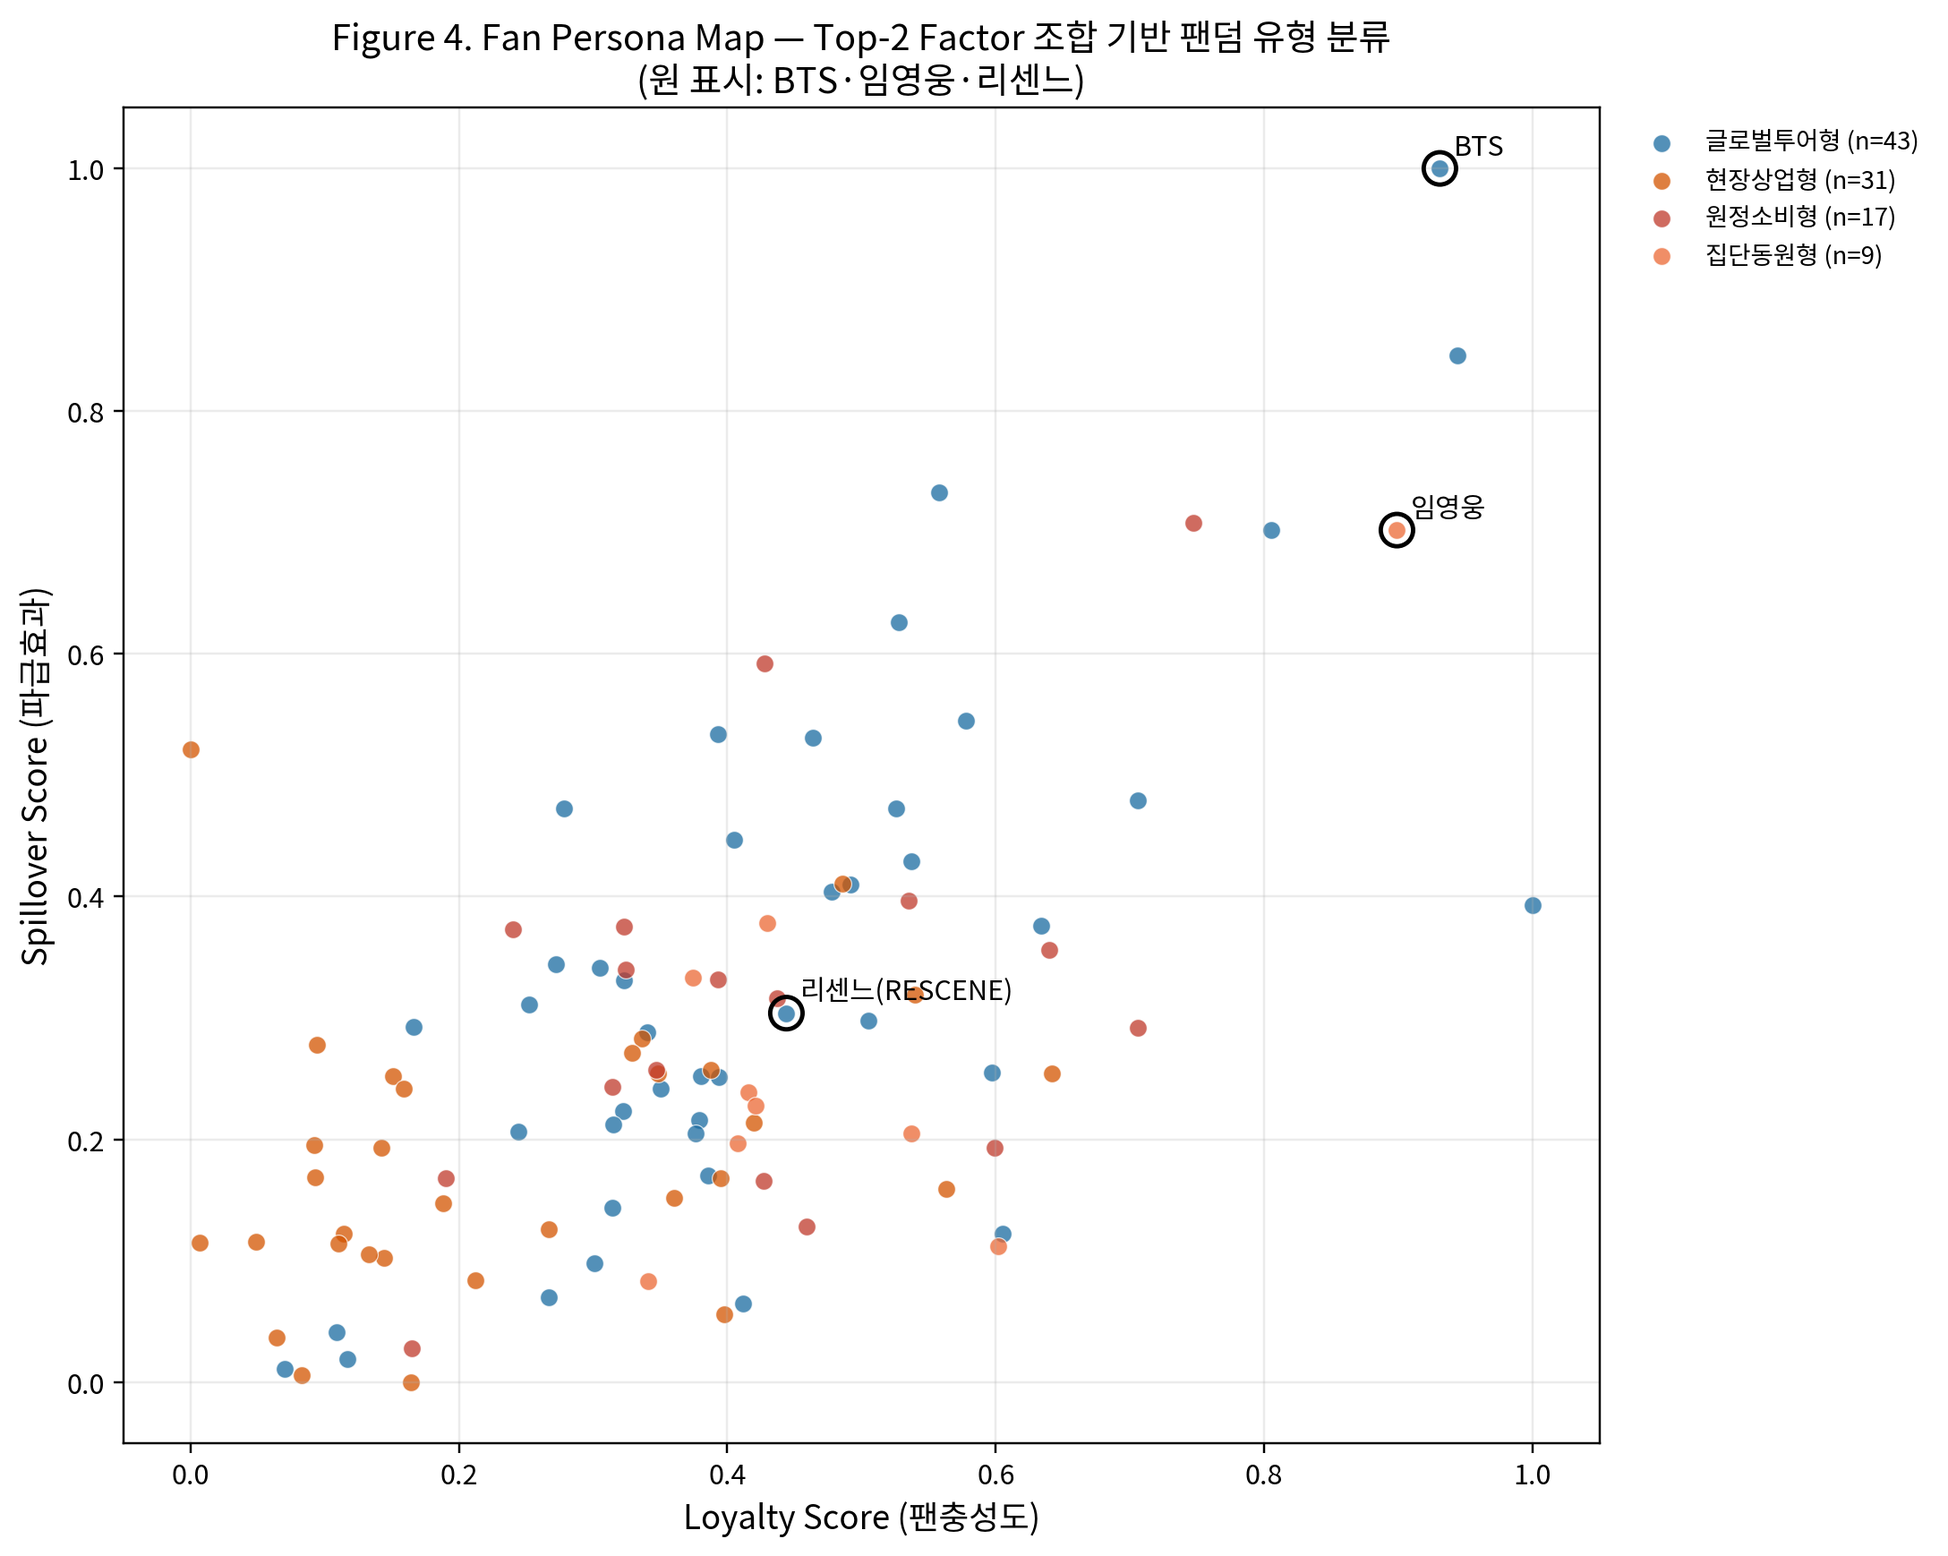
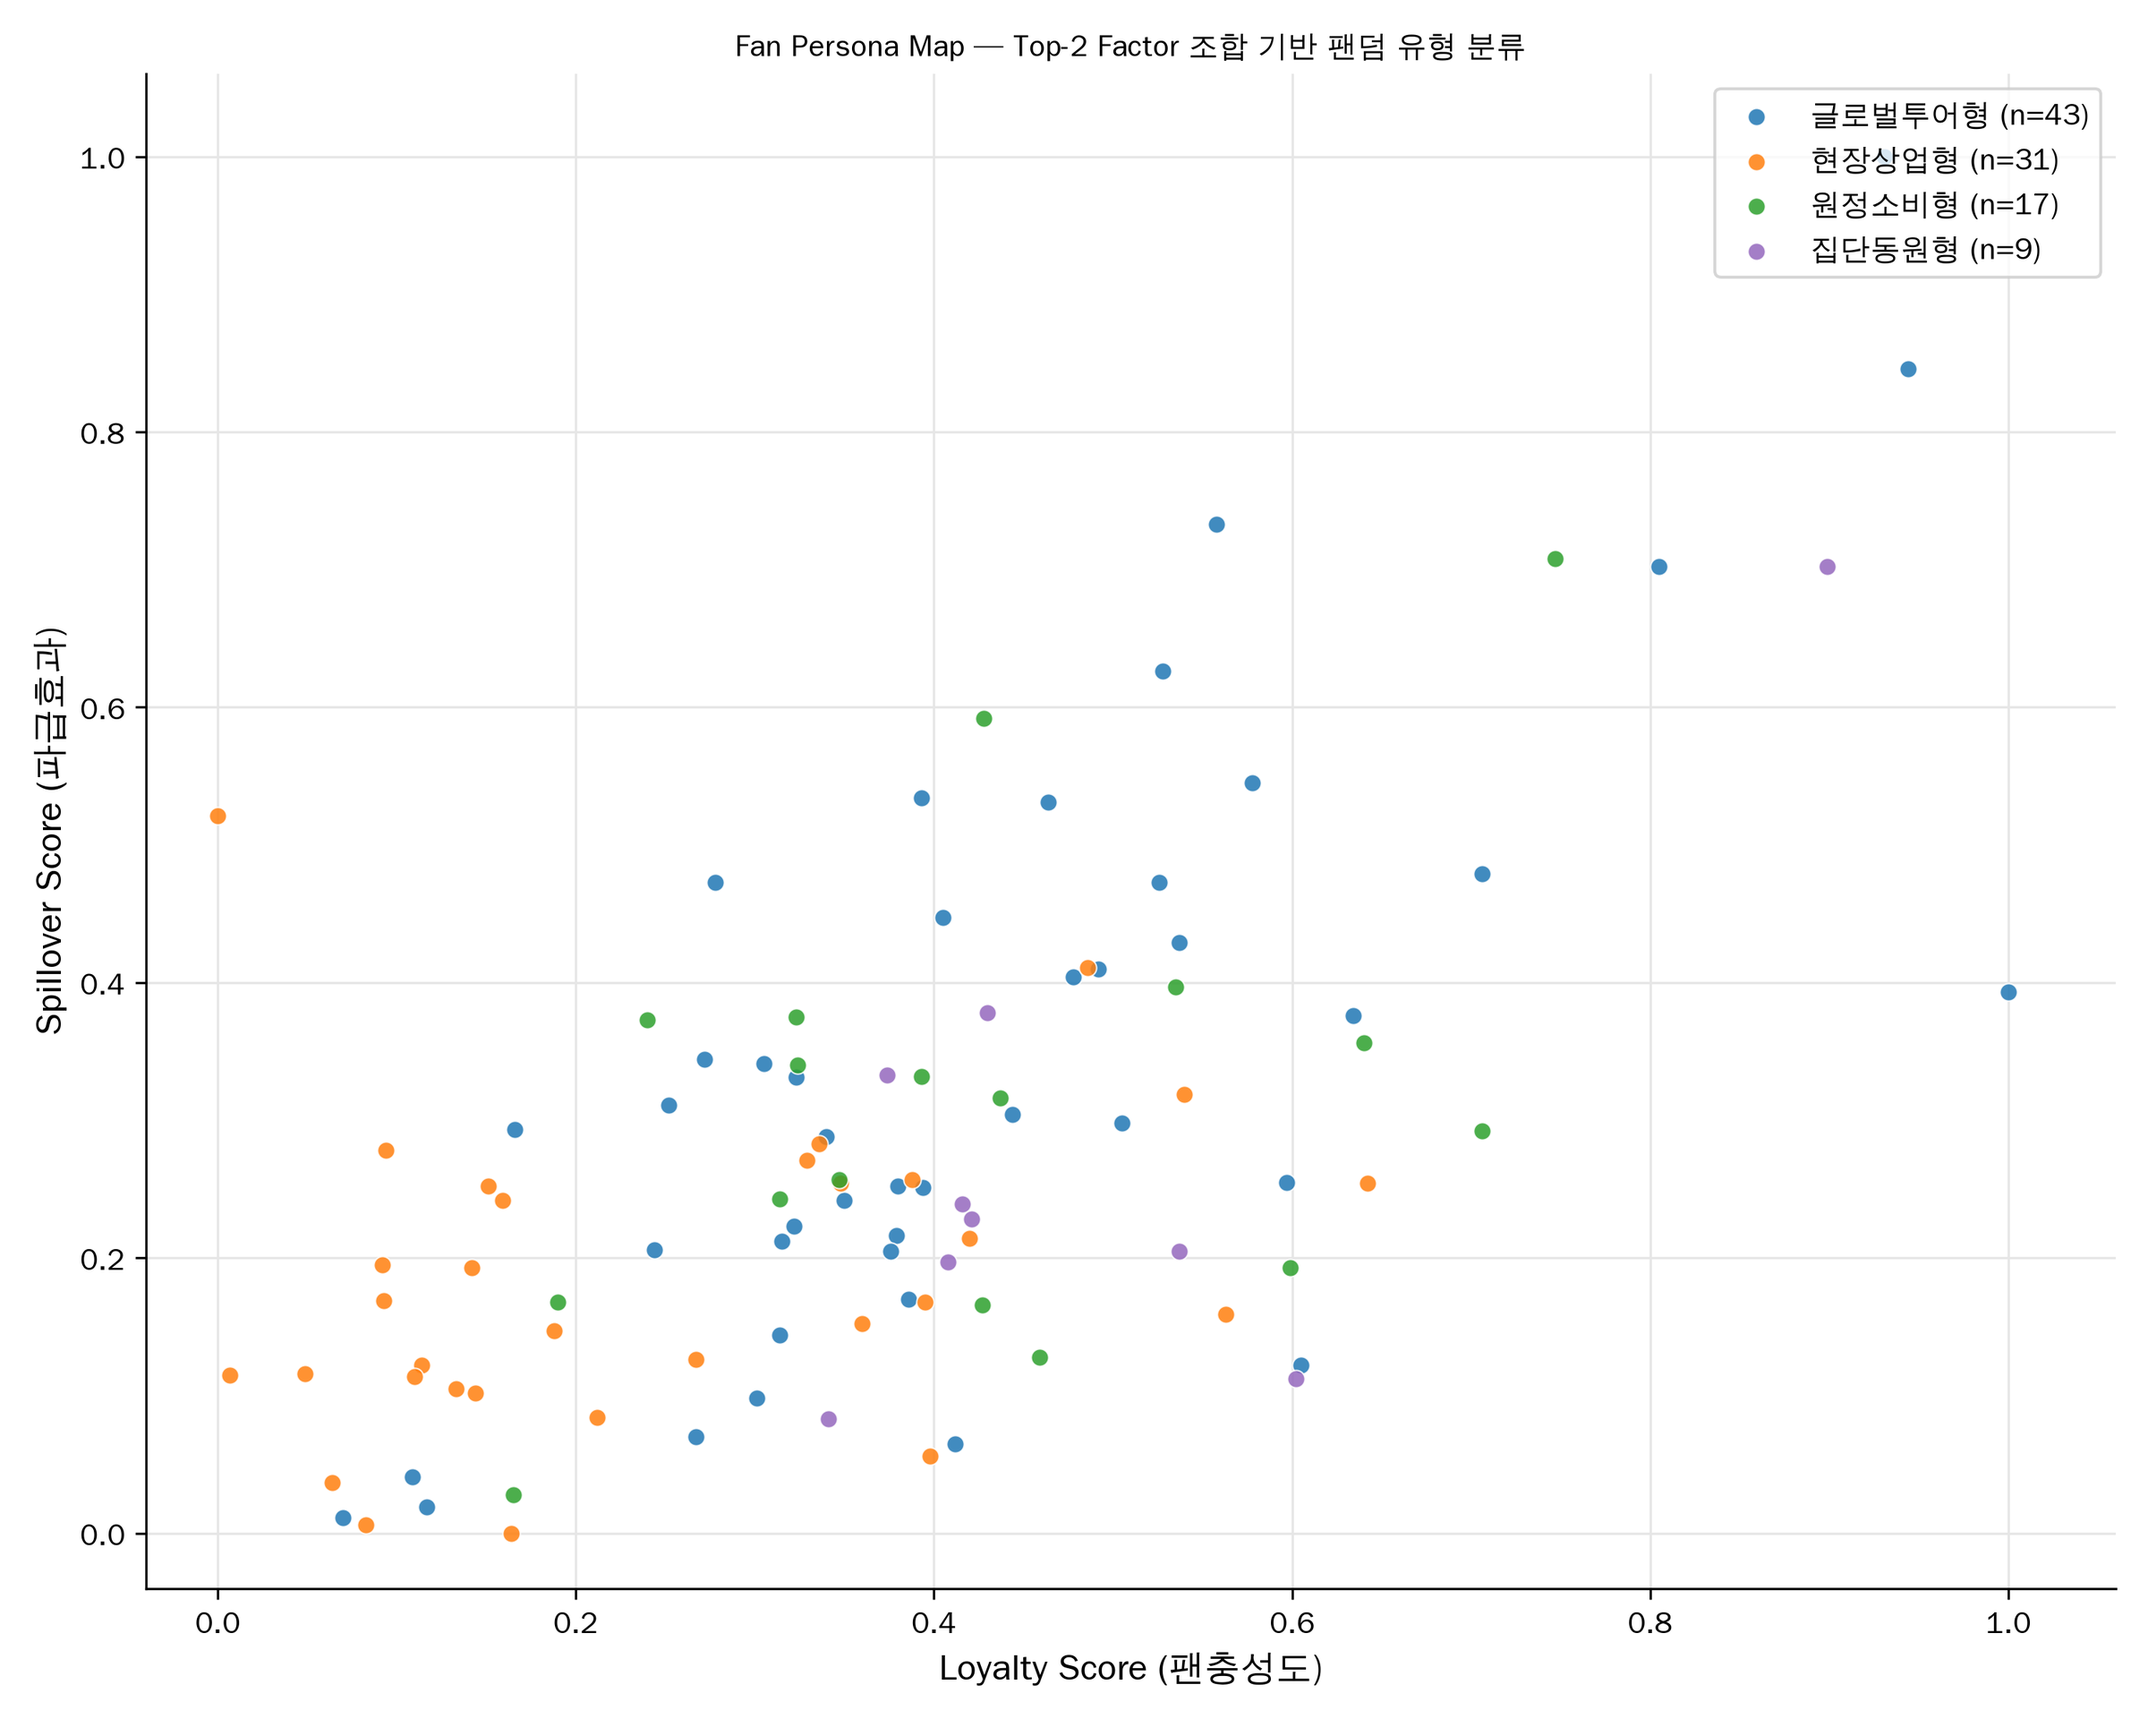
Fan Persona Map 차트 스크립트 추가(강조 표시 있음/없음), README 그림을 강조 없는 판으로 교체
Claude-Session: https://claude.ai/code/session_01VWuqhk8UFpTen2BecLssSX

diff --git a/v7_final_10020/charts/build_persona_map_v7.py b/v7_final_10020/charts/build_persona_map_v7.py
@@ -1,0 +1,75 @@
+# -*- coding: utf-8 -*-
+"""Fan Persona Map — 팬충성도 × 파급효과 평면에 100개 팬덤을 페르소나 4유형(상위 2개 F 조합)으로 색칠한 산점도.
+동결 스냅샷(v7-40) 점수(data/v7_final/fandom_scores_v6.json)와 페르소나(fan_persona_v7.json)를 읽어 두 판을 만든다.
+  output/charts/persona_map_v7.png             BTS·임영웅·리센느 강조 표시 있음(보고서 그림 4와 같은 구성)
+  output/charts/persona_map_v7_plain.png       강조 표시 없음
+실행: python v7_final_10020/charts/build_persona_map_v7.py
+"""
+import json
+import os
+from pathlib import Path
+
+import matplotlib
+matplotlib.use("Agg")
+import matplotlib.pyplot as plt
+import matplotlib.font_manager as fm
+
+BASE = Path(__file__).resolve().parents[2]
+DATA_DIR = BASE / "data" / "v7_final"
+OUT_DIR = BASE / "output" / "charts"
+OUT_DIR.mkdir(parents=True, exist_ok=True)
+
+
+def _find_korean_font():
+    candidates = [os.environ.get("KFONT_PATH", ""), str(BASE / "fonts" / "NotoSansCJKkr-Regular.otf"),
+                  "/usr/share/fonts/opentype/noto/NotoSansCJK-Regular.ttc", "/usr/share/fonts/truetype/nanum/NanumGothic.ttf",
+                  "C:/Windows/Fonts/malgun.ttf", "/System/Library/Fonts/AppleSDGothicNeo.ttc", "/usr/share/fonts/truetype/wqy/wqy-zenhei.ttc"]
+    for c in candidates:
+        if c and os.path.exists(c):
+            fp = fm.FontProperties(fname=c); fm.fontManager.addfont(c); plt.rcParams["font.family"] = fp.get_name(); return fp
+    print("[warn] 한글 폰트를 찾지 못했습니다 — KFONT_PATH 환경변수로 지정하세요."); return None
+
+
+FONT = _find_korean_font()
+plt.rcParams["axes.unicode_minus"] = False
+
+with open(DATA_DIR / "fandom_scores_v6.json", encoding="utf-8") as f:
+    scores = {r["fandom"]: r for r in json.load(f)}
+with open(DATA_DIR / "fan_persona_v7.json", encoding="utf-8") as f:
+    fp = json.load(f)
+persona = {r["fandom"]: r["persona"] for r in fp["fandoms"]}
+counts = fp["persona_counts"]
+
+STYLE = {"글로벌투어형": ("#1f77b4", "o"), "현장상업형": ("#ff7f0e", "o"), "원정소비형": ("#2ca02c", "o"), "집단동원형": ("#9467bd", "o")}
+HIGHLIGHT = ["BTS", "임영웅", "리센느(RESCENE)"]
+
+
+def draw(highlight: bool, path: Path):
+    fig, ax = plt.subplots(figsize=(10, 8), dpi=300)
+    for p, (c, mk) in sorted(STYLE.items(), key=lambda kv: -counts.get(kv[0], 0)):
+        names = [n for n in scores if persona.get(n) == p]
+        ax.scatter([scores[n]["loyalty_score"] for n in names], [scores[n]["spillover_score"] for n in names],
+                   s=34, c=c, marker=mk, alpha=0.85, edgecolors="white", linewidths=0.5, label=f"{p} (n={counts.get(p, len(names))})", zorder=3)
+    if highlight:
+        for n in HIGHLIGHT:
+            x, y = scores[n]["loyalty_score"], scores[n]["spillover_score"]
+            ax.scatter([x], [y], s=150, facecolors="none", edgecolors="black", linewidths=1.6, zorder=4)
+            ax.annotate(n, (x, y), textcoords="offset points", xytext=(8, 6), fontsize=10, fontproperties=FONT, zorder=5)
+    ax.set_xlim(-0.04, 1.06); ax.set_ylim(-0.04, 1.06)
+    ax.set_xlabel("Loyalty Score (팬충성도)", fontsize=12, fontproperties=FONT)
+    ax.set_ylabel("Spillover Score (파급효과)", fontsize=12, fontproperties=FONT)
+    title = "Fan Persona Map — Top-2 Factor 조합 기반 팬덤 유형 분류"
+    if highlight:
+        title += "\n(원 표시: BTS·임영웅·리센느)"
+    ax.set_title(title, fontsize=13, fontproperties=FONT)
+    ax.grid(True, color="#e6e6e6", linewidth=0.8, zorder=0)
+    ax.legend(loc="upper right", fontsize=10, prop=FONT, frameon=True)
+    for s in ("top", "right"):
+        ax.spines[s].set_visible(False)
+    plt.tight_layout(); plt.savefig(path, facecolor="white"); plt.close(fig)
+    print("saved", path.relative_to(BASE))
+
+
+print(f"[verify] 팬덤 {len(scores)}개, 페르소나 분포 {counts}")
+draw(True, OUT_DIR / "persona_map_v7.png")
+draw(False, OUT_DIR / "persona_map_v7_plain.png")

diff --git a/v7_final_10020/docs/PYTHON_CODE_SUMMARY.md b/v7_final_10020/docs/PYTHON_CODE_SUMMARY.md
@@ -18,6 +18,7 @@
 | 파이프라인(루트) | `run_lda_v6.py` | 코퍼스 JSON (`--data`, 기본 `fandoms_v3_100.json`) | `output/lda_rerun/` — 토큰화→LDA K 탐색→K→M 재군집화→실루엣 게이트→점수·페르소나 |
 | 차트 | `v7_final_10020/charts/build_cohesion_index_v7.py` | `fandom_cohesion_index_v7.json` | 팬덤결속 지수 좌우 2패널 PNG/SVG (`output/charts/`) |
 | 차트 | `v7_final_10020/charts/build_cohesion_index_v7_right_only.py` | 〃 | 우측 패널(상위 25개 팬덤) 단독 PNG/SVG |
+| 차트 | `v7_final_10020/charts/build_persona_map_v7.py` | `fandom_scores_v6.json`, `fan_persona_v7.json` (동결 스냅샷) | Fan Persona Map(팬충성도×파급효과, 페르소나 4유형 색) PNG 2종 — 강조 표시 있음/없음 |
 | 차트 | `v7_final_10020/charts/build_persona_cluster_split_boxed.py` | `persona_decision_space_v7.json`(HTML 내장 병합 기록·shares; 원본 `factor_clustering_structure_v7.json`이 있으면 그것을 우선)·`fan_persona_v7.json` (동결 스냅샷) | 덴드로그램 PNG + PCA biplot PNG (2개 분리) |
 | 차트 | `v7_final_10020/silhouette_gate_policy/build_silhouette_gate_timeline_v7.py` | `data/silhouette_gate_timeline/corpus_silhouette_timeline_v7_66_2ch.csv` | 코퍼스 규모 vs 실루엣 이중축 타임라인 PNG/SVG, 게이트 구간 20회 기각·r=+0.15 자체 재계산 |
 | 지수 CSV | `v7_final_10020/indices_csv/build_ad_commercial_index_csv.py` | `ad_commercial_index_v7.json` | `output/indices_csv/ad_commercial_index_v7.csv` |

diff --git a/README.md b/README.md
@@ -121,7 +121,7 @@ flowchart LR
 | Persona | 어떤 방식으로 작동하는가 | 상위 2개 F 조합 10가지 중 실현 4유형: **글로벌투어형 43**(F3+F5) · **현장상업형 31**(F3+F4) · **원정소비형 17**(F2+F3) · **집단동원형 9**(F1+F3) — 전부 F3 공유 | `fan_persona_v7.json` |
 | Loyalty·Spillover | 얼마나 강한가 | 점수를 F별로 분해한 Factor-specific Impact = 비중 × 점수 | `fan_persona_v7.json` |
 
-| Fan Persona Map | 경로별(F1∼F5) 점수 분해 |
+| Fan Persona Map (강조 표시 없음, `charts/build_persona_map_v7.py`) | 경로별(F1∼F5) 점수 분해 |
 |---|---|
 | ![Persona map](assets/readme/fig05_persona_map.png) | ![Factor-specific](assets/readme/fig06_factor_specific_impact.png) |
 
